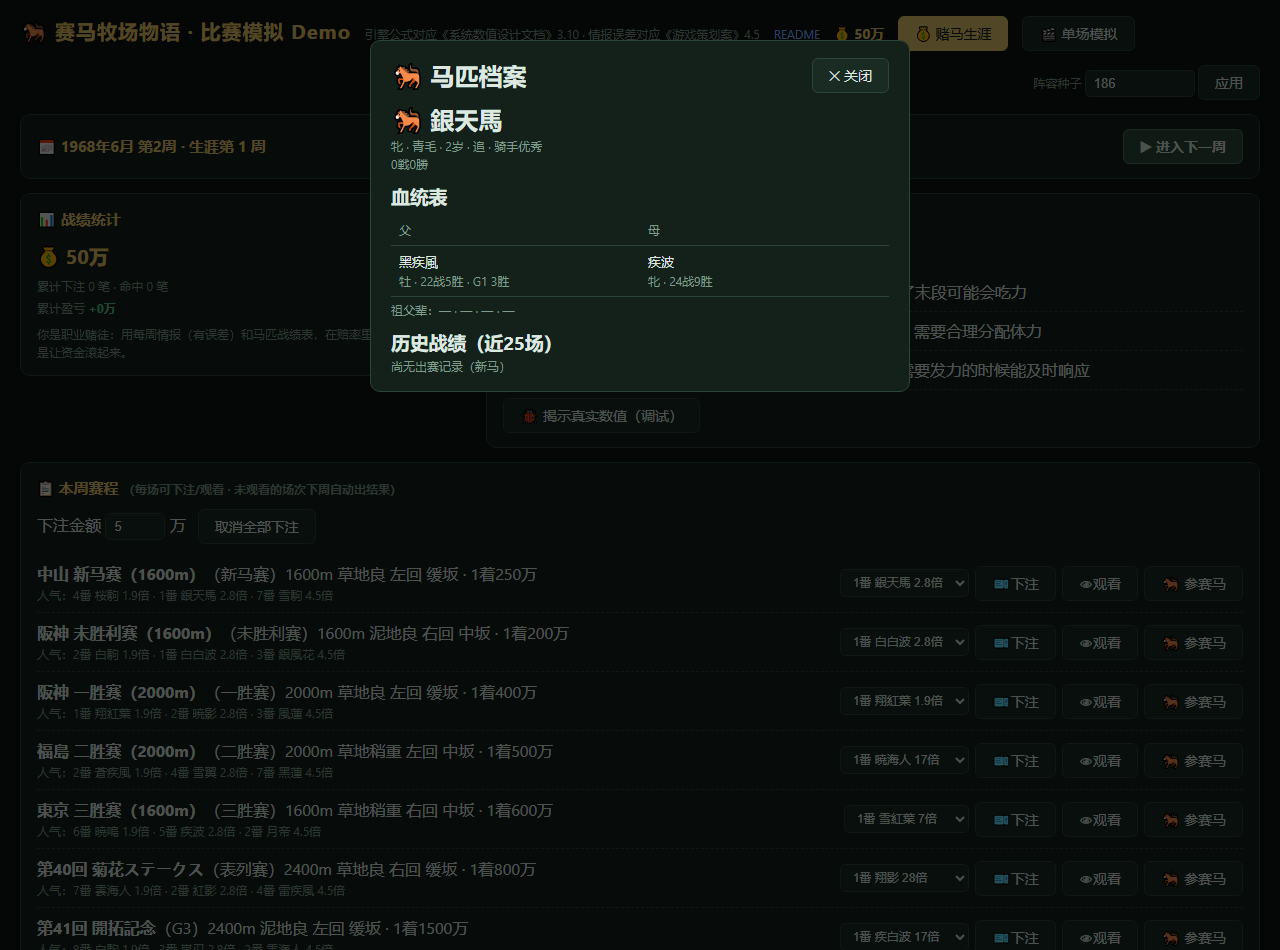
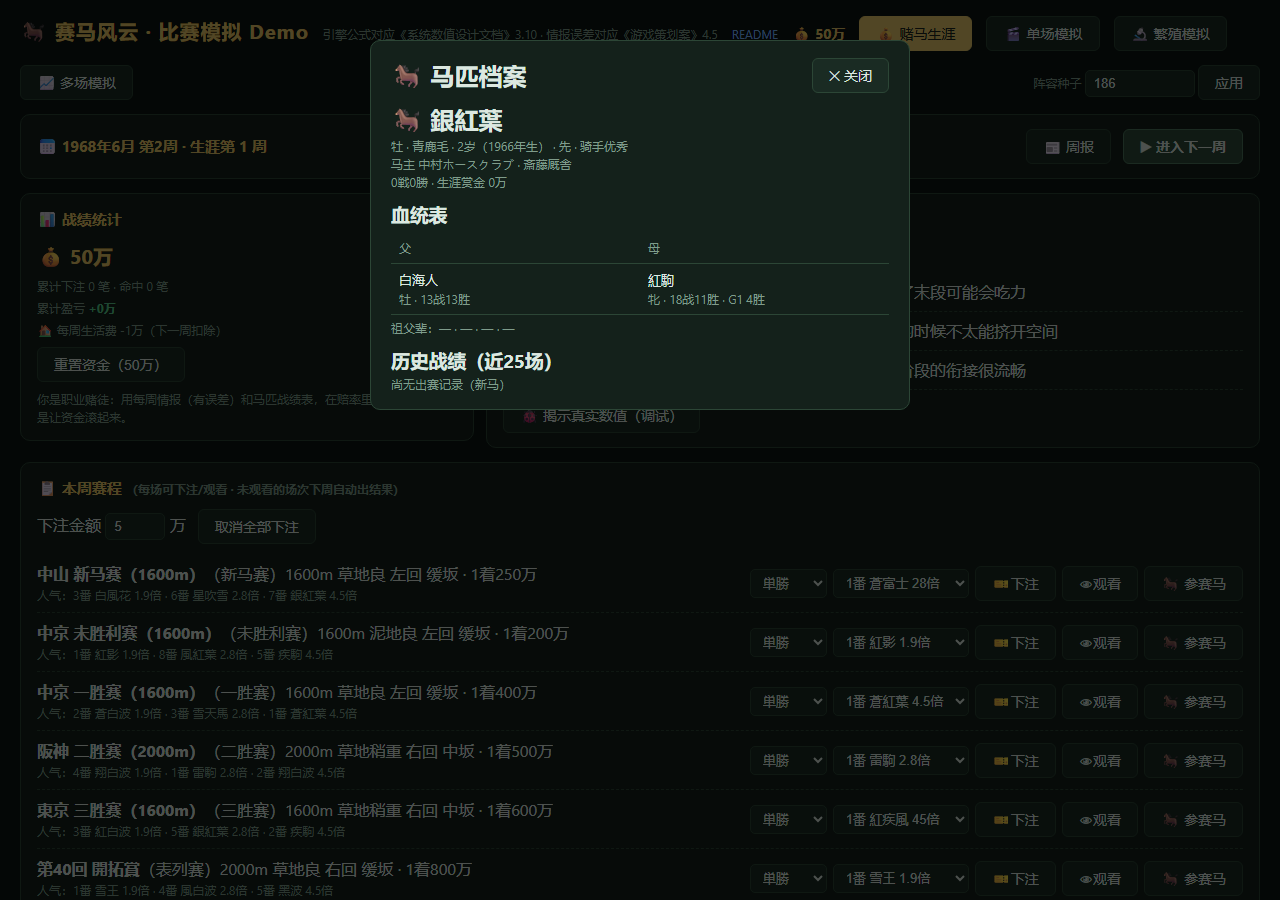
统一名称为「赛马风云」，并更新截图与直达入口

diff --git a/index.html b/index.html
@@ -3,7 +3,7 @@
 <head>
 <meta charset="UTF-8">
 <meta name="viewport" content="width=device-width, initial-scale=1.0">
-<title>赛马牧场物语 · 比赛模拟 Demo</title>
+<title>赛马风云 · 比赛模拟 Demo</title>
 <style>
 :root {
   --bg: #0d1512; --panel: #14211b; --panel2: #1a2b23; --line: #2c4636;
@@ -107,7 +107,7 @@ footer { margin-top: 24px; color: #5d7365; font-size: 11px; }
 </head>
 <body>
 <header>
-  <h1>🐎 赛马牧场物语 · 比赛模拟 Demo</h1>
+  <h1>🐎 赛马风云 · 比赛模拟 Demo</h1>
   <span class="sub">引擎公式对应《系统数值设计文档》3.10 · 情报误差对应《游戏策划案》4.5</span>
   <a href="README.md" target="_blank">README</a>
   <span class="bankroll" id="bankrollDisplay">💰 50万</span>
@@ -422,7 +422,7 @@ footer { margin-top: 24px; color: #5d7365; font-size: 11px; }
     <div id="newsBody"></div>
   </div>
 </div>
-<script src="sim.js?v=v2026.09.28.6"></script>
+<script src="sim.js?v=v2026.09.28.7"></script>
 <script>
 'use strict';
 const S = window.SaimaSim;
@@ -438,7 +438,7 @@ let playerId = null, race = null, rafId = 0, speedMult = 1, paused = false;
    目的是区分"页面缓存"与"真的有 bug"——GitHub Pages 的 Cache-Control 是
    max-age=600，刷新后可能仍是旧文件；页面底部会显示这个号，
    对不上就说明看到的是旧版（硬刷新 Ctrl+F5 或加 ?v= 参数）。 */
-const APP_VER = 'v2026.09.28.6';
+const APP_VER = 'v2026.09.28.7';
 
 let state = 'setup', acc = 0, lastTs = 0, lastUiTs = 0, reportRng = null, cam = null, raceCount = 0;
 /* 赛道观感参数（透视距离 / 纵向比例 / 纵向锚点）。
@@ -1706,8 +1706,9 @@ function mcFinish() {
   mc.running = false;
   $('btnRunMC').disabled = false;
   const secs = ((performance.now() - mc.t0) / 1000).toFixed(1);
-  $('mcProgress').textContent = '✅ 完成：' + mc.doc.n + ' + ' + mc.balanced.n + ' 场（含着差配对），用时 ' +
-    secs + ' 秒　·　每档 ' + mc.trials + ' 场 · ' + mc.L + 'm · ' + mc.surface;
+  $('mcProgress').textContent = '✅ 完成：' + mc.doc.n + ' + ' + mc.balanced.n + ' 场（含着差配对）' +
+    (secs >= 0.1 ? '，用时 ' + secs + ' 秒' : '') +
+    '　·　每档 ' + mc.trials + ' 场 · ' + mc.L + 'm · ' + mc.surface;
   lastMc = { doc: mc.doc, bal: mc.balanced, gapDoc: mc.gapDoc, gapBal: mc.gapBal,
              trials: mc.trials, L: mc.L, surface: mc.surface };
   mcRenderStyle(lastMc);
@@ -1937,6 +1938,8 @@ const BOOT = {
   autotest: new URLSearchParams(location.search).has('autotest') || location.hash === '#autotest',
   snap: location.hash === '#snap',
   multi: location.hash.indexOf('#multi') === 0,
+  breed: location.hash === '#breed',
+  single: location.hash === '#single',
   mcTrials: parseInt(new URLSearchParams(location.search).get('mc'), 10) || 0,
 };
 if (BOOT.autotest) {
@@ -1955,8 +1958,25 @@ if (BOOT.autotest) {
       mcStart();
     }
   }, 120));
+} else if (BOOT.breed) {
+  mode = 'breed'; switchMode('breed');
+} else if (BOOT.single) {
+  mode = 'single'; switchMode('single');
 } else {
   switchMode('career');
+}
+// ?horse=<序号|id> 直接打开马匹档案（演示/截图用）
+const bootHorse = new URLSearchParams(location.search).get('horse');
+if (bootHorse) {
+  const idx = parseInt(bootHorse, 10);
+  const target = isNaN(idx)
+    ? career.roster.find((h) => h.id === bootHorse)
+    : career.roster[idx - 1];
+  if (target) setTimeout(() => openHorseDetail(target.id), 60);
+}
+// ?breedmc=1 进入繁殖模拟并直接跑一次配种蒙特卡洛（演示/截图用）
+if (new URLSearchParams(location.search).has('breedmc') && mode === 'breed') {
+  setTimeout(() => { try { drawBreedChart(); } catch (e) { /* 无种马时忽略 */ } }, 80);
 }
 </script>
 </body>

diff --git a/tests/mc.js b/tests/mc.js
@@ -1,6 +1,6 @@
 #!/usr/bin/env node
 /* ============================================================
- * 赛马牧场物语 · 数值验证脚本 (Monte Carlo)
+ * 赛马风云 · 数值验证脚本 (Monte Carlo)
  * ------------------------------------------------------------
  * 目的：为作品集中两条数值结论提供可复现的证据
  *   ① 跑法系数失衡：文档原版系数下，追马/差马胜率被逃马压制
@@ -185,9 +185,9 @@ const line = (s) => console.log(s);
 const rule = () => line('─'.repeat(72));
 
 line('');
-line('赛马牧场物语 · 数值验证（Monte Carlo）');
+line('赛马风云 · 数值验证（Monte Carlo）');
 rule();
-line('引擎版本  : sim.js (赛马牧场物语 Demo · 比赛模拟引擎 v0.1)');
+line('引擎版本  : sim.js (赛马风云 Demo · 比赛模拟引擎 v0.1)');
 line('对比变量  : styleCoefs = "doc"（文档原版） vs "balanced"（平衡档）');
 line('控制变量  : 相同马匹阵容 / 相同随机种子 / 骑手固定「普通」/ 疲劳 0');
 line('比赛设定  : ' + RACE_LENGTH + 'm ' + SURFACE + '・' + STATE + '・' + PROFILE + '・8 匹出马（4 种跑法各 2 匹）');

diff --git a/sim.js b/sim.js
@@ -1,5 +1,5 @@
 /* ============================================================
- * 赛马牧场物语 Demo · 比赛模拟引擎 v0.1
+ * 赛马风云 Demo · 比赛模拟引擎 v0.1
  * 公式来源：《系统数值设计文档》3.10 比赛系统设计
  * 情报误差机制来源：《游戏策划案》4.5 情报系统
  * 运行环境：浏览器(挂载到 window.SaimaSim) / Node(require)

diff --git a/README.md b/README.md
@@ -20,6 +20,7 @@
 ![比赛实况](docs/screenshots/02-比赛实况.png)
 ![马匹档案](docs/screenshots/03-马匹档案.png)
 ![繁殖工坊](docs/screenshots/04-繁殖工坊.png)
+![多场模拟](docs/screenshots/05-多场模拟.png)
 
 ## 四个模式
 
@@ -92,7 +93,19 @@ node tests/page-smoke.js                               # 整页冒烟：启动 +
 
 - 在线：GitHub Pages 链接
 - 本地：双击 index.html（无需服务器）
-- 直达多场模拟：`index.html#multi`（带 `?mc=200` 可指定场次并自动开跑，便于演示/截图）
-- 引擎自检：`index.html?autotest`
+
+直达各模式的入口（便于演示与截图）：
+
+| 入口 | 作用 |
+|---|---|
+| `#multi` | 多场模拟；加 `?mc=200` 指定场次并自动开跑 |
+| `#breed` | 繁殖模拟；加 `?breedmc=1` 自动跑一次配种蒙特卡洛 |
+| `#single` | 单场模拟（数值沙盒） |
+| `#snap` + `?steps=N` | 推进到比赛第 N 帧后定格，用于截图 |
+| `?horse=1` | 直接打开第 1 匹马的档案（也可传马 id） |
+| `?autotest` | 引擎自检：跑 3 场并输出结果 |
+
+页面底部会显示构建版本号（如 `构建 v2026.09.28.6`）。
+GitHub Pages 的缓存是 10 分钟，改了却看不到新效果时，先核对这个版本号，再按 Ctrl+F5 硬刷新。
 
 *全部马名、马主、赛事名为程序虚构。*
